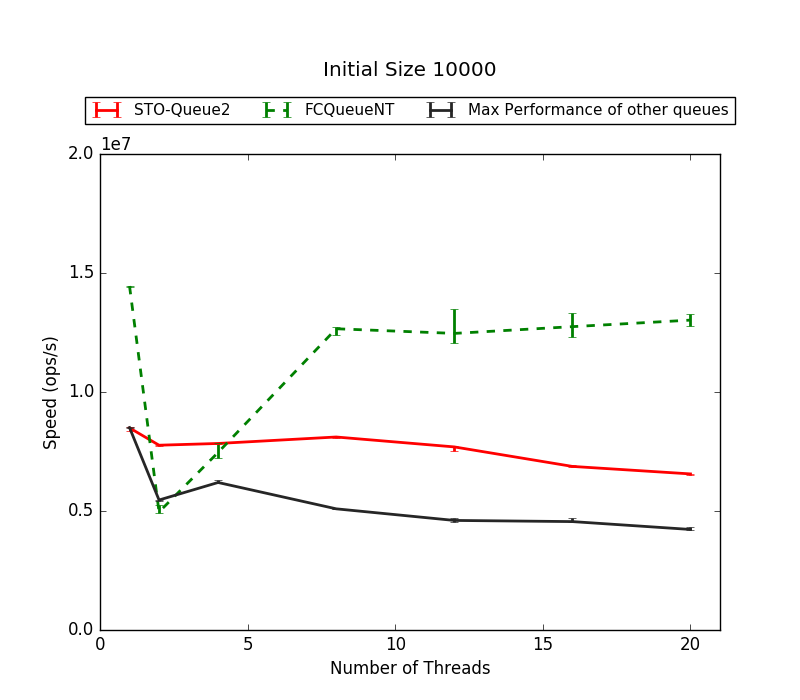
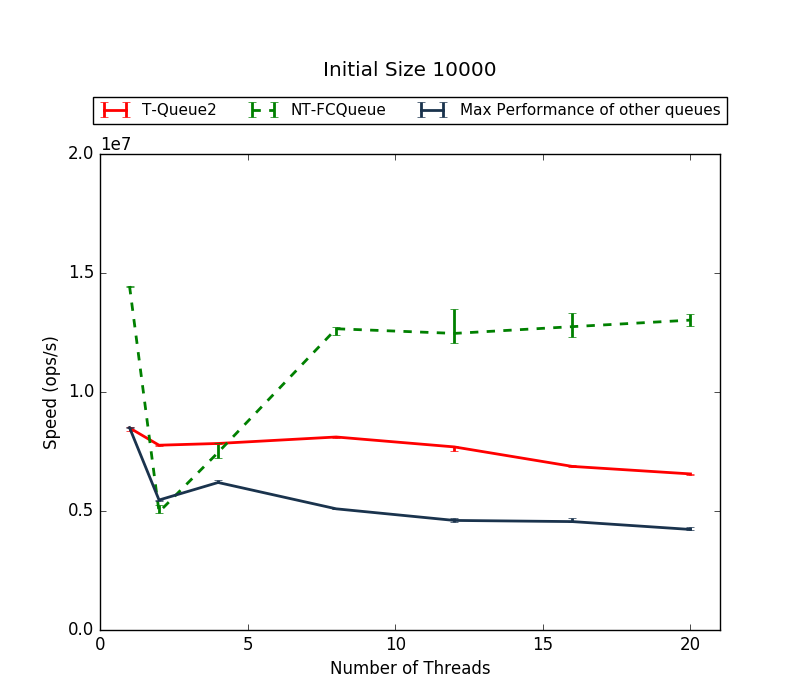
add all graphs

diff --git a/figures/concurrent/all100000aborts.tex b/figures/concurrent/all100000aborts.tex
@@ -1,0 +1,16 @@
+\begin{tabular}{|c|c|c|c|}
+\hline
+\multirow{2}{*}{Queue} & \multicolumn{3}{c|}{\#Threads Abort Rate (\%)}\\\cline{2-4}& \quad 4 & 12 & 20\\
+\hline
+\hline
+T-Queue1 & 9.078 & 6.400 & 6.106\\
+T-Queue2 & 2.774 & 2.315 & 2.548\\
+NT-FCQueue & 0.000 & 0.000 & 0.000\\
+Basket & 0.000 & 0.000 & 0.000\\
+Moir & 0.000 & 0.000 & 0.000\\
+Michael-Scott & 0.000 & 0.000 & 0.000\\
+Optimistic & 0.000 & 0.000 & 0.000\\
+Read-Write & 0.000 & 0.000 & 0.000\\
+Segmented & 0.000 & 0.000 & 0.000\\
+TsigasCycle & 0.000 & 0.000 & 0.000\\
+\hline\end{tabular}

diff --git a/figures/concurrent/all10000aborts.tex b/figures/concurrent/all10000aborts.tex
@@ -1,0 +1,16 @@
+\begin{tabular}{|c|c|c|c|}
+\hline
+\multirow{2}{*}{Queue} & \multicolumn{3}{c|}{\#Threads Abort Rate (\%)}\\\cline{2-4}& \quad 4 & 12 & 20\\
+\hline
+\hline
+T-Queue1 & 8.083 & 6.626 & 5.902\\
+T-Queue2 & 3.446 & 2.323 & 2.724\\
+NT-FCQueue & 0.000 & 0.000 & 0.000\\
+Basket & 0.000 & 0.000 & 0.000\\
+Moir & 0.000 & 0.000 & 0.000\\
+Michael-Scott & 0.000 & 0.000 & 0.000\\
+Optimistic & 0.000 & 0.000 & 0.000\\
+Read-Write & 0.000 & 0.000 & 0.000\\
+Segmented & 0.000 & 0.000 & 0.000\\
+TsigasCycle & 0.000 & 0.000 & 0.000\\
+\hline\end{tabular}

diff --git a/figures/concurrent/allpushpop_aborts.tex b/figures/concurrent/allpushpop_aborts.tex
@@ -1,0 +1,16 @@
+\begin{tabular}{|c|c|c|}
+\hline
+\multirow{2}{*}{Queue} & \multicolumn{2}{c|}{Initial Size Abort Rate (\%)}\\\cline{2-3}& \qquad 10000 \qquad\quad & 100000\\
+\hline
+\hline
+T-Queue1 & 0.350 & 0.350\\
+T-Queue2 & 1.192 & 1.192\\
+NT-FCQueue & 0.000 & 0.000\\
+Basket & 0.000 & 0.000\\
+Moir & 0.000 & 0.000\\
+Michael-Scott & 0.000 & 0.000\\
+Optimistic & 0.000 & 0.000\\
+Read-Write & 0.000 & 0.000\\
+Segmented & 0.000 & 0.000\\
+TsigasCycle & 0.000 & 0.000\\
+\hline\end{tabular}

diff --git a/figures/fcqueues/all100000aborts.tex b/figures/fcqueues/all100000aborts.tex
@@ -1,0 +1,12 @@
+\begin{tabular}{|c|c|c|c|}
+\hline
+\multirow{2}{*}{Queue} & \multicolumn{3}{c|}{\#Threads Abort Rate (\%)}\\\cline{2-4}& \quad 4 & 12 & 20\\
+\hline
+\hline
+T-Queue1 & 9.405 & 6.841 & 6.303\\
+T-Queue2 & 2.809 & 2.324 & 2.446\\
+WT-Queue & 16.600 & 59.998 & 71.140\\
+NT-FCQueueWrapped & 0.000 & 0.000 & 0.000\\
+T-FCQueue & 4.436 & 3.521 & 4.207\\
+WT-FCQueue & 0.000 & 0.000 & 0.000\\
+\hline\end{tabular}

diff --git a/figures/fcqueues/all10000aborts.tex b/figures/fcqueues/all10000aborts.tex
@@ -1,0 +1,12 @@
+\begin{tabular}{|c|c|c|c|}
+\hline
+\multirow{2}{*}{Queue} & \multicolumn{3}{c|}{\#Threads Abort Rate (\%)}\\\cline{2-4}& \quad 4 & 12 & 20\\
+\hline
+\hline
+T-Queue1 & 9.550 & 6.775 & 6.381\\
+T-Queue2 & 2.875 & 2.296 & 2.462\\
+WT-Queue & 17.016 & 57.891 & 71.006\\
+NT-FCQueueWrapped & 0.000 & 0.000 & 0.000\\
+T-FCQueue & 4.629 & 3.468 & 4.288\\
+WT-FCQueue & 0.000 & 0.000 & 0.000\\
+\hline\end{tabular}

diff --git a/figures/fcqueues/allpushpop_aborts.tex b/figures/fcqueues/allpushpop_aborts.tex
@@ -1,0 +1,12 @@
+\begin{tabular}{|c|c|c|}
+\hline
+\multirow{2}{*}{Queue} & \multicolumn{2}{c|}{Initial Size Abort Rate (\%)}\\\cline{2-3}& \qquad 10000 \qquad\quad & 100000\\
+\hline
+\hline
+T-Queue1 & 0.394 & 0.394\\
+T-Queue2 & 1.454 & 1.454\\
+WT-Queue & 0.000 & 0.000\\
+NT-FCQueueWrapped & 0.000 & 0.000\\
+T-FCQueue & 0.000 & 0.000\\
+WT-FCQueue & 0.000 & 0.000\\
+\hline\end{tabular}
